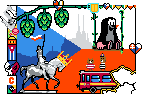
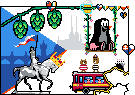
New art

diff --git a/index.html b/index.html
@@ -27,8 +27,8 @@
         const Y_GRID_PIXELS = 12
 
         // Top Left corner, including
-        const X_IMG_POSITION = 1197 - 7;
-        const Y_IMG_POSITION = 161 - 5;
+        const X_IMG_POSITION = 1197;
+        const Y_IMG_POSITION = 161 - 6;
 
         const X_OFFSET = 0
         const Y_OFFSET = 0
